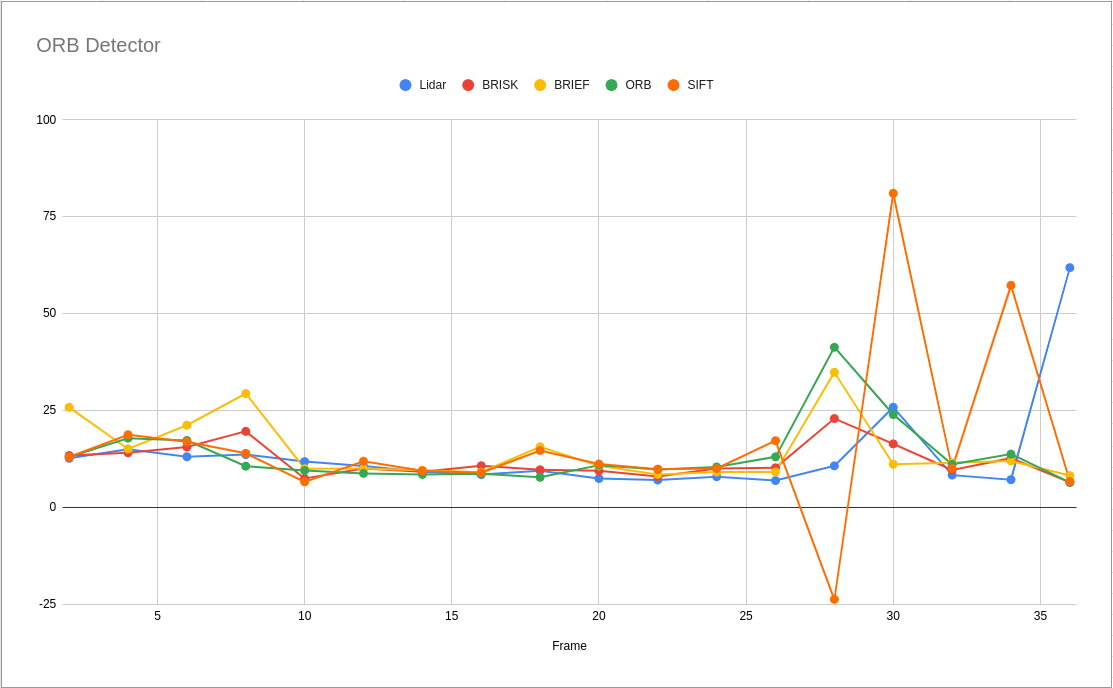
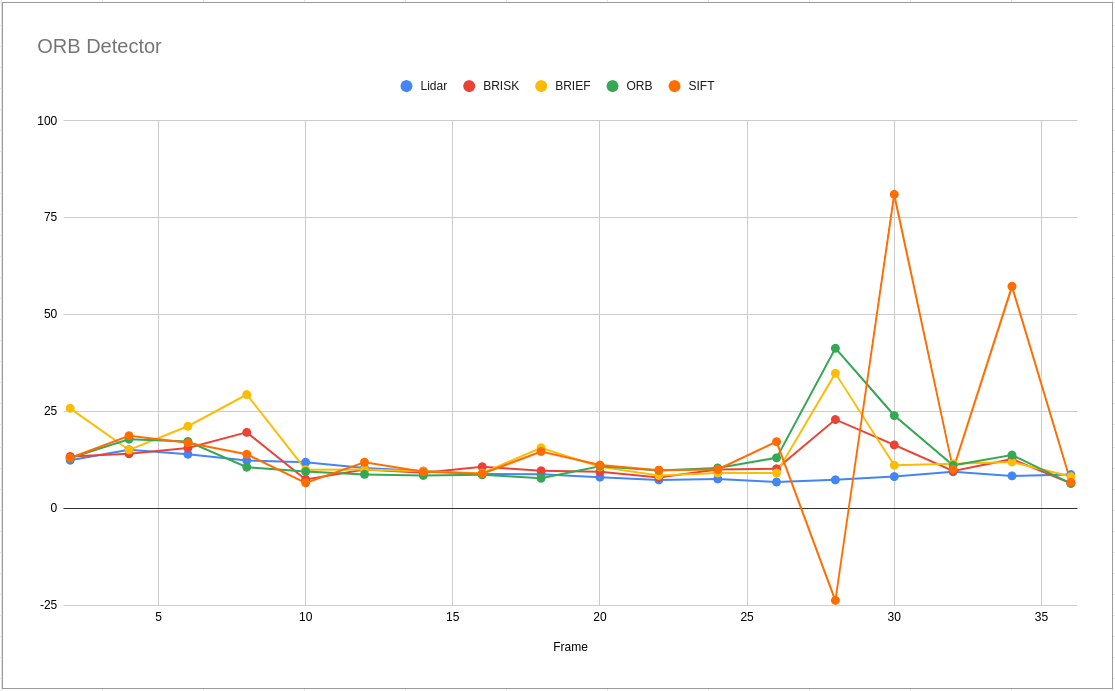
Make change in computeTTCLidar to use median value instead of centroid to take care of outlier points

diff --git a/src/camFusion_Student.cpp b/src/camFusion_Student.cpp
@@ -219,30 +219,45 @@ void computeTTCCamera(std::vector<cv::KeyPoint> &kptsPrev, std::vector<cv::KeyPo
     // cout << "Camera TTC(s): " << TTC << endl;
 }
 
+bool lidarPointsCompare_x (LidarPoint src1, LidarPoint src2) { return ( src1.x < src2.x); };
+
 void computeTTCLidar(std::vector<LidarPoint> &lidarPointsPrev,
                      std::vector<LidarPoint> &lidarPointsCurr, double frameRate, double &TTC)
 {
-    cout << "#lidarPt Prev: " << lidarPointsPrev.size() << ", #lidarPt Curr: " << lidarPointsCurr.size() << endl;
-    if (!lidarPointsPrev.empty() && !lidarPointsCurr.empty())
-    {
-        double xPrev = 0;
-        for (auto pt : lidarPointsPrev)
-        {
-            xPrev += pt.x;
-        }
-        double centroidPrev(xPrev / lidarPointsPrev.size());
+    //Sort lidar points by x value
+    std::sort(lidarPointsPrev.begin(), lidarPointsPrev.end(), lidarPointsCompare_x);
+    std::sort(lidarPointsCurr.begin(), lidarPointsCurr.end(), lidarPointsCompare_x);
 
-        double xCurr = 0;
-        for (auto pt : lidarPointsCurr)
-        {
-            xCurr += pt.x;
-        }
-        double centroidCurr(xCurr / lidarPointsCurr.size());
+    //Get median point
+    double medianPrev = lidarPointsPrev.at( (int)(lidarPointsPrev.size()/2) ).x;
+    double medianCurr = lidarPointsCurr.at( (int)(lidarPointsCurr.size()/2) ).x;
 
-        TTC = (centroidCurr / frameRate) / (centroidPrev - centroidCurr);
-        // cout << "Lidar TTC(s): " << TTC << " centroid Prev: " 
-        // << centroidPrev << ", Curr: "<< centroidCurr << " , Frame rate: " << frameRate << endl;
-    }
+    TTC = (medianCurr / frameRate) / (medianPrev - medianCurr);
+    cout << "Lidar TTC(s): " << TTC << " median Prev: " 
+    << medianPrev << ", Curr: "<< medianCurr << " , Frame rate: " << frameRate << endl;
+
+    // Calculate lidar points centroid
+    // cout << "#lidarPt Prev: " << lidarPointsPrev.size() << ", #lidarPt Curr: " << lidarPointsCurr.size() << endl;
+    // if (!lidarPointsPrev.empty() && !lidarPointsCurr.empty())
+    // {
+    //     double xPrev = 0;
+    //     for (auto pt : lidarPointsPrev)
+    //     {
+    //         xPrev += pt.x;
+    //     }
+    //     double centroidPrev(xPrev / lidarPointsPrev.size());
+
+    //     double xCurr = 0;
+    //     for (auto pt : lidarPointsCurr)
+    //     {
+    //         xCurr += pt.x;
+    //     }
+    //     double centroidCurr(xCurr / lidarPointsCurr.size());
+
+    //     TTC = (centroidCurr / frameRate) / (centroidPrev - centroidCurr);
+    //     // cout << "Lidar TTC(s): " << TTC << " centroid Prev: " 
+    //     // << centroidPrev << ", Curr: "<< centroidCurr << " , Frame rate: " << frameRate << endl;
+    // }
 }
 
 /**

diff --git a/README.md b/README.md
@@ -15,10 +15,6 @@
 4. Run it: `./3D_object_tracking`.
 
 ## Project writeup
-### FP.0 parameters setup
-- number of frame
-- skip frame
-- detector and descriptor
 
 ### FP.1 Match 3D Objects
 Implement `matchBoundingBoxes` function. Given a pairs of matches keypoints between current and previous frame as an input (from `matchDescriptors` function), we then need to match a bounding boxes id (given by YOLO) between the frame as well.
@@ -47,6 +43,8 @@ A relation between frame is not always exist as can be seen in bonding box with 
 Implement `computeTTCLidar` function. Given Lidar points from previous and current frame, determine Time To Collision. Speacial care need to be taken to handle outlier points.
 
 Instead of using the nearest Lidar point to determine a distance between ego and preceeding car, I uses a centroid of the points instead. This will minimize an effect of having a few outlier points and therefore provide more reliable TTC calculation output.
+
+`[update]` Additional experiment shown that there are some abnormalities in TTC estimation when some lidar points doesn't come from preceeding vehicle and cause TTC estimation to be unrealisticly high. My solution is to use a median value of lidar points instead of using centroid, this greatly help a robustness of TTC estimation from lidar points.
 
 ### FP.3 Associate Keypoint Correspondences with Bounding Boxes
 Implement `clusterKptMatchesWithROI` function. Given a matches keypoints between previous and current frame, we need to assign a valid matches keypoints pair to a bounding boxes.
@@ -83,6 +81,8 @@ Same scenarios occur at frame index 36, where TTC from Lidar points yield 61.906
 
 These problem can be address by applied euclidean base filtering to remove outlier points.
 
+`[update]` The outlier problem has been resolved with minor change in `computeTTCLidar` function, to use a median of points instead of centroid. With this change, the problems shown above has then been resolved.
+
 ### FP.5 Performance Evaluation 2 (TTC estimation from image keypoints using combination of detector and descriptor pairs)
 Compair resulting TTC estimation from various feature detector and descriptor to determind best combination. The plot below shown an overall performance.
 
@@ -110,3 +110,4 @@ When look at matches keypoints at the specific frame, shown below, we can see th
 | *Frame 30, ORB/SIFT combination* |
 
 TTC Calculated for this frame is 81.06 sec. while manually calculated TTC based on Lidar point yield 7.2375 sec.
+ 
